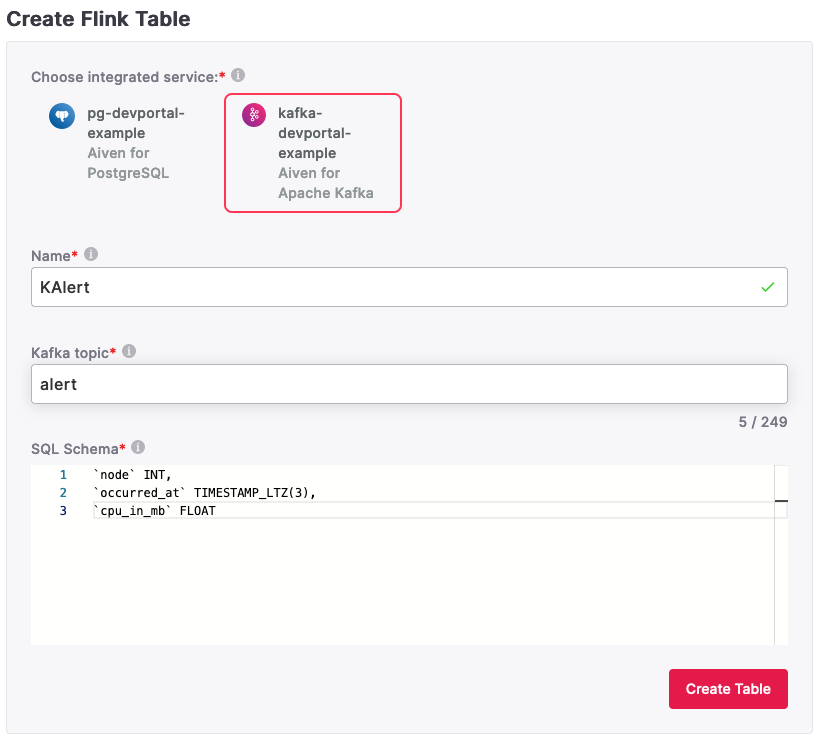
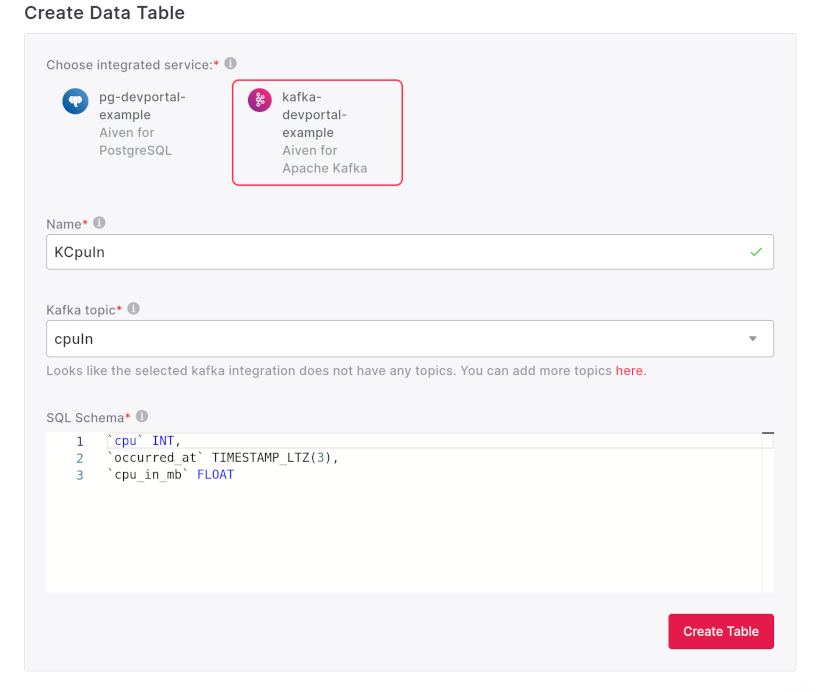
Add info about sink Kafka topic creation, align source and sink Kafka topic info

diff --git a/docs/products/flink/howto/connect/connect-kafka.rst b/docs/products/flink/howto/connect/connect-kafka.rst
@@ -9,13 +9,13 @@ To create a Flink table based on Aiven for Apache Kafka via Aiven console:
 
 3. Define the Flink table **Name**, the source **Kafka topic** and **Schema SQL** 
 
-**Example**: Define a Flink table named ``KAlert`` pointing to a Kafka topic named ``alert`` available in the Aiven for Apache Kafka service named ``kafka-devportal-example``
+**Example**: Define a Flink table named ``KCpuIn`` pointing to a Kafka topic named ``cpuIn`` available in the Aiven for Apache Kafka service named ``kafka-devportal-example``
 
 Settings:
 
 * ``kafka-devportal-example`` as the selected service 
-* ``Kalert`` as **Name**
-* ``alert`` as **Kafka topic**
+* ``KCpuIn`` as **Name**
+* ``cpuIn`` as **Kafka topic**
 * ``node INT, occurred_at TIMESTAMP_LTZ(3), cpu_in_mb FLOAT`` as **SQL schema**
 
 The image below shows the Aiven console page with the filled details.
@@ -23,3 +23,15 @@ The image below shows the Aiven console page with the filled details.
 .. image:: /images/products/flink/create-table-topic.png
   :scale: 70 %
   :alt: Image of the Aiven for Apache Flink Jobs and Data tab when creating a Flink table on top of an Aiven for Apache Kafka topic
+
+
+The Flink table for the sink **Kafka topic** could be defined in a similar way
+
+Settings:
+
+* ``kafka-devportal-example`` as the selected service
+* ``KAlert`` as **Name**
+* ``alert`` as **Kafka topic**
+* ``node INT, occurred_at TIMESTAMP_LTZ(3), cpu_in_mb FLOAT`` as **SQL schema**
+
+**Note**: It is possible to have sink **Kafka topic** automatically created by enabling in Aiven for Apache Kafka service **kafka.auto_create_topics_enable** in **Advanced configuration** section
